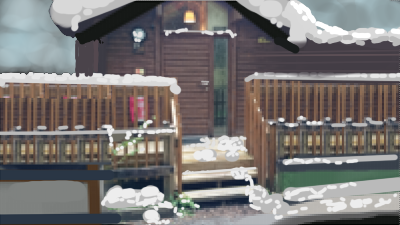
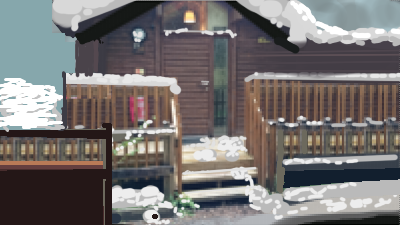
Changes to WIP room visibility management.

diff --git a/core/src/com/kowaisugoi/game/rooms/StandardRoom.java b/core/src/com/kowaisugoi/game/rooms/StandardRoom.java
@@ -21,6 +21,7 @@ import static com.kowaisugoi.game.screens.PlayGame.GAME_WIDTH;
 public abstract class StandardRoom implements Room {
 
     private Sprite _roomSprite;
+    private boolean _visible = false;
     protected List<Item> _itemList = new LinkedList<Item>();
     protected List<Passage> _passageList = new LinkedList<Passage>();
 
@@ -32,6 +33,9 @@ public abstract class StandardRoom implements Room {
     public void enter() {
         // On entering the typical room, allow the player to interact
         Player.setCanInteract(true);
+
+        // On entering the typical room, enable drawing the room immediately
+        _visible = true;
     }
 
     public void addPassage(Passage interactable) {
@@ -43,16 +47,37 @@ public abstract class StandardRoom implements Room {
     }
 
     @Override
+    public void setVisible(boolean visible) {
+        _visible = visible;
+    }
+
+    @Override
     public void draw(SpriteBatch batch) {
+        for (Passage passage : _passageList) {
+            passage.draw(batch);
+        }
+
+        if (!_visible) {
+            return;
+        }
+
         _roomSprite.draw(batch);
-        for (Interactable interactable : _passageList) {
+        for (Interactable interactable : _itemList) {
             interactable.draw(batch);
         }
     }
 
     @Override
     public void draw(ShapeRenderer renderer) {
-        for (Interactable interactable : _passageList) {
+        for (Passage passage : _passageList) {
+            passage.draw(renderer);
+        }
+
+        if (!_visible) {
+            return;
+        }
+
+        for (Interactable interactable : _itemList) {
             interactable.draw(renderer);
         }
     }

diff --git a/core/src/com/kowaisugoi/game/graphics/SlideTransition.java b/core/src/com/kowaisugoi/game/graphics/SlideTransition.java
@@ -18,6 +18,7 @@ public class SlideTransition {
     private boolean _animationComplete = false;
     private Passage _passage;
     private RoomId _destination;
+    private RoomId _source;
 
     public enum Direction {
         UP, DOWN, LEFT, RIGHT
@@ -42,7 +43,8 @@ public class SlideTransition {
     private static final float MAX_Y = PlayGame.GAME_HEIGHT;
     private static final float MIN_Y = -PlayGame.GAME_HEIGHT;
 
-    public SlideTransition(Passage p, RoomId destination) {
+    public SlideTransition(Passage p, RoomId source, RoomId destination) {
+        _source = source;
         _destination = destination;
         _passage = p;
         _animationLength = 0;
@@ -153,11 +155,15 @@ public class SlideTransition {
     public void draw(SpriteBatch batch) {
         if (_direction == Direction.UP || _direction == Direction.DOWN) {
             if (_animationLength > HALF_TIME_VERTICAL) {
-                RoomManager.getRoomMap().get(this._destination).draw(batch);
+                RoomManager.getRoomFromId(_source).setVisible(false);
+                RoomManager.getRoomFromId(_destination).setVisible(true);
+                RoomManager.getRoomFromId(_destination).draw(batch);
             }
         } else if (_direction == Direction.LEFT || _direction == Direction.RIGHT) {
             if (_animationLength > HALF_TIME_HORIZONTAL) {
-                RoomManager.getRoomMap().get(this._destination).draw(batch);
+                RoomManager.getRoomFromId(_source).setVisible(false);
+                RoomManager.getRoomFromId(_destination).setVisible(true);
+                RoomManager.getRoomFromId(_destination).draw(batch);
             }
         }
     }

diff --git a/core/src/com/kowaisugoi/game/rooms/RoomFrontYard.java b/core/src/com/kowaisugoi/game/rooms/RoomFrontYard.java
@@ -20,24 +20,21 @@ public class RoomFrontYard extends StandardRoom {
 
         _snowAnimation = new SnowAnimation(50, 6);
 
-        Passage frontDoor = new StandardPassage(RoomId.MAIN_HALL, new Rectangle(65, 35, 20, 40), Direction.UP);
+        // TODO: Rooms should probably locally store their own id (associated refactoring required)
+        Passage frontDoor = new StandardPassage(RoomId.FRONTYARD, RoomId.MAIN_HALL, new Rectangle(65, 35, 20, 40), Direction.UP);
 
         addPassage(frontDoor);
     }
 
     @Override
     public void update(float delta) {
-        for (Passage interactable : _passageList) {
-            _snowAnimation.updateSnow(delta);
-            interactable.update(delta);
-        }
+        super.update(delta);
+        _snowAnimation.updateSnow(delta);
     }
 
     @Override
     public void draw(ShapeRenderer renderer) {
-        for (Passage interactable : _passageList) {
-            _snowAnimation.draw(renderer);
-            interactable.draw(renderer);
-        }
+        super.draw(renderer);
+        _snowAnimation.draw(renderer);
     }
 }

diff --git a/core/src/com/kowaisugoi/game/interactables/passages/StandardPassage.java b/core/src/com/kowaisugoi/game/interactables/passages/StandardPassage.java
@@ -14,14 +14,15 @@ import java.util.LinkedList;
 public class StandardPassage implements Passage {
     private LinkedList<InteractionListener> _listeners = new LinkedList<InteractionListener>();
     private Rectangle _interactionBox;
-    private RoomId _destination;
+    private RoomId _source, _destination;
     private SlideTransition _transition;
     private Direction _direction;
 
-    public StandardPassage(RoomId dest, Rectangle interactionBox, Direction direction) {
+    public StandardPassage(RoomId src, RoomId dest, Rectangle interactionBox, Direction direction) {
+        _source = src;
         _destination = dest;
         _interactionBox = interactionBox;
-        _transition = new SlideTransition(this, dest);
+        _transition = new SlideTransition(this, src, dest);
         _direction = direction;
     }
 

diff --git a/core/src/com/kowaisugoi/game/rooms/RoomMainHall.java b/core/src/com/kowaisugoi/game/rooms/RoomMainHall.java
@@ -14,8 +14,8 @@ public class RoomMainHall extends StandardRoom {
     public RoomMainHall() {
         super(new Sprite(new Texture(ROOM_URL)));
 
-        Passage frontDoor = new StandardPassage(RoomId.FRONTYARD, new Rectangle(65, 25, 30, 40), SlideTransition.Direction.UP);
-        Passage turnAround = new StandardPassage(RoomId.FRONTYARD, new Rectangle(55, 0, 50, 10), SlideTransition.Direction.DOWN);
+        Passage frontDoor = new StandardPassage(RoomId.MAIN_HALL, RoomId.FRONTYARD, new Rectangle(65, 25, 30, 40), SlideTransition.Direction.UP);
+        Passage turnAround = new StandardPassage(RoomId.MAIN_HALL, RoomId.FRONTYARD, new Rectangle(55, 0, 50, 10), SlideTransition.Direction.DOWN);
 
         addPassage(frontDoor);
         addPassage(turnAround);

diff --git a/core/src/com/kowaisugoi/game/rooms/RoomFrontDoorInterior.java b/core/src/com/kowaisugoi/game/rooms/RoomFrontDoorInterior.java
@@ -15,7 +15,7 @@ public class RoomFrontDoorInterior extends StandardRoom {
     public RoomFrontDoorInterior() {
         super(new Sprite(new Texture(ROOM_URL)));
 
-        Passage frontDoor = new StandardPassage(RoomId.MAIN_HALL, new Rectangle(70, 20, 20, 35), SlideTransition.Direction.UP);
+        Passage frontDoor = new StandardPassage(RoomId.FRONT_DOOR_INTERIOR, RoomId.MAIN_HALL, new Rectangle(70, 20, 20, 35), SlideTransition.Direction.UP);
 
         addPassage(frontDoor);
     }

diff --git a/core/src/com/kowaisugoi/game/rooms/RoomCar.java b/core/src/com/kowaisugoi/game/rooms/RoomCar.java
@@ -14,7 +14,7 @@ public class RoomCar extends StandardRoom {
     public RoomCar() {
         super(new Sprite(new Texture(ROOM_URL)));
 
-        Passage carDoor = new StandardPassage(RoomId.FRONTYARD, new Rectangle(140, 0, 20, 200), SlideTransition.Direction.RIGHT);
+        Passage carDoor = new StandardPassage(RoomId.CAR, RoomId.FRONTYARD, new Rectangle(140, 0, 20, 200), SlideTransition.Direction.RIGHT);
 
         addPassage(carDoor);
     }

diff --git a/core/src/com/kowaisugoi/game/rooms/Room.java b/core/src/com/kowaisugoi/game/rooms/Room.java
@@ -5,6 +5,8 @@ import com.badlogic.gdx.graphics.glutils.ShapeRenderer;
 import com.badlogic.gdx.utils.Disposable;
 
 public interface Room extends Disposable {
+    public void setVisible(boolean visible);
+
     public void draw(SpriteBatch batch);
 
     public void draw(ShapeRenderer batch);
